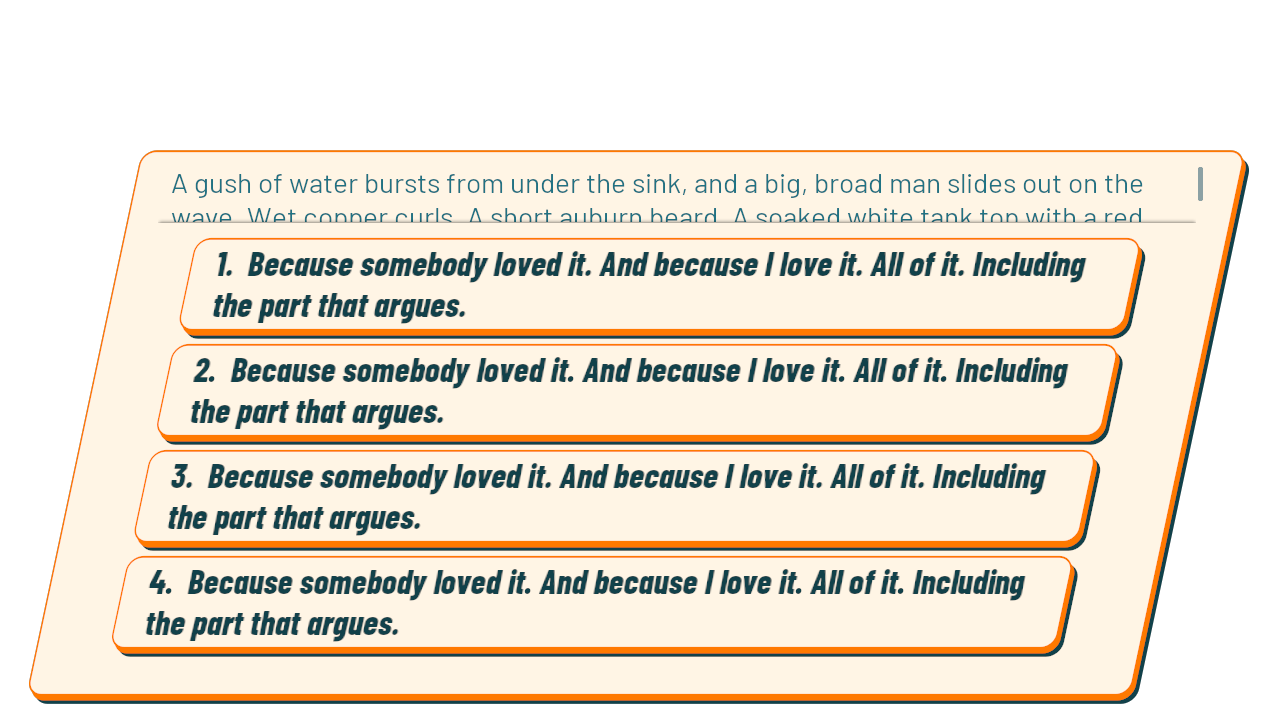
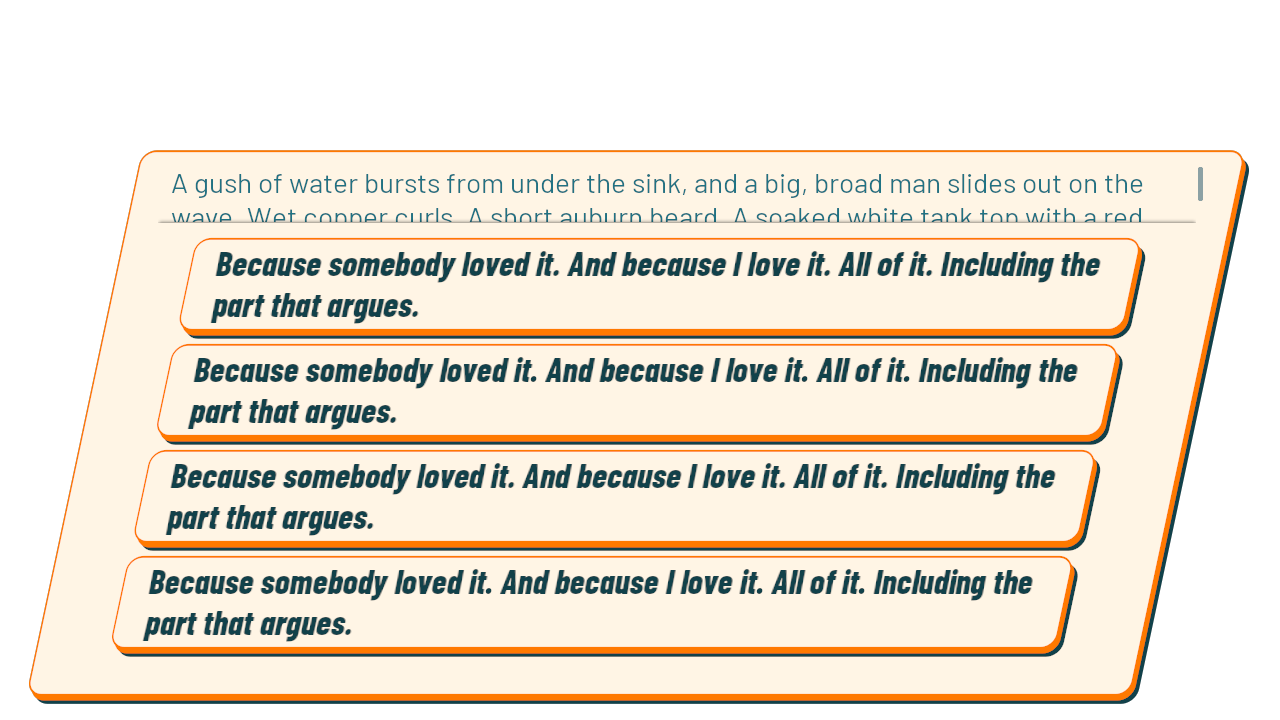
Dialogue header: reserve widest-name space before meters, taller strip, no dividers; unnumbered replies

diff --git a/Source/ICanFixHim/UI/FixHimDialogueWidget.cpp b/Source/ICanFixHim/UI/FixHimDialogueWidget.cpp
@@ -19,6 +19,9 @@
 #include "Components/Overlay.h"
 #include "Components/OverlaySlot.h"
 #include "Components/ProgressBar.h"
+#include "Fonts/FontMeasure.h"
+#include "Framework/Application/SlateApplication.h"
+#include "Rendering/SlateRenderer.h"
 #include "Components/SizeBox.h"
 #include "Components/Spacer.h"
 #include "Components/ScrollBox.h"
@@ -40,6 +43,9 @@ namespace
 constexpr int32 MeterMax = FixHimStatMax;
 constexpr float FadeSeconds = 0.9f;
 constexpr float HoldSeconds = 2.6f;
+// Name plate horizontal padding, strip lead padding, how far the strip tucks behind the name, and the
+// minimum clear space between the widest name plate and the first meter.
+constexpr float NamePadL = 36.f, NamePadR = 52.f, StripPadL = 36.f, StripTuck = 40.f, NameMargin = 36.f;
 } // namespace
 
 void UFixHimDialogueWidget::BuildUI()
@@ -71,7 +77,7 @@ void UFixHimDialogueWidget::BuildUI()
 	UVerticalBox *NameStack = WidgetTree->ConstructWidget<UVerticalBox>();
 	NamePill = WidgetTree->ConstructWidget<UFixHimSurface>();
 	NamePill->SetBrush(Rounded(HotPink, 16.f));
-	NamePill->SetPadding(FMargin(36, 2, 52, 20));
+	NamePill->SetPadding(FMargin(NamePadL, 2, NamePadR, 20));
 	NameText = MakeText(WidgetTree, TEXT("NAME"), 66, FLinearColor::White, TEXT("Display"));
 	NamePill->SetContent(NameText);
 	NameStack->AddChildToVerticalBox(NamePill)->SetHorizontalAlignment(HAlign_Left);
@@ -79,23 +85,14 @@ void UFixHimDialogueWidget::BuildUI()
 
 	UFixHimSurface *Strip = WidgetTree->ConstructWidget<UFixHimSurface>();
 	Strip->SetBrush(Rounded(FixHimDesign::Teal, 12.f));
-	Strip->SetPadding(FMargin(36, 8, 44, 22));
+	Strip->SetPadding(FMargin(StripPadL, 18, 44, 32));
 	UHorizontalBox *Meters = WidgetTree->ConstructWidget<UHorizontalBox>();
 	Strip->SetContent(Meters);
+	MeterLead = WidgetTree->ConstructWidget<USizeBox>();
+	MeterLead->SetWidthOverride(0.f);
+	Meters->AddChildToHorizontalBox(MeterLead);
 	auto AddMeter = [&](const FString &Label, const FString &IconName, const FLinearColor &Color) -> UProgressBar * {
-		if (Meters->GetChildrenCount() > 0)
-		{
-			// Thin cream divider between meters.
-			auto *Divider = WidgetTree->ConstructWidget<USizeBox>();
-			Divider->SetWidthOverride(3);
-			Divider->SetHeightOverride(40);
-			auto *Bar = WidgetTree->ConstructWidget<UBorder>();
-			Bar->SetBrushColor(Cream.CopyWithNewOpacity(.7f));
-			Divider->AddChild(Bar);
-			UHorizontalBoxSlot *DivSlot = Meters->AddChildToHorizontalBox(Divider);
-			DivSlot->SetVerticalAlignment(VAlign_Center);
-			DivSlot->SetPadding(FMargin(12, 0));
-		}
+		const bool bFirst = Meters->GetChildrenCount() == 1; // only MeterLead so far
 		// No label: a stat-colored badge with a white icon sits over the bar's left end.
 		UOverlay *M = WidgetTree->ConstructWidget<UOverlay>();
 		USizeBox *BB = WidgetTree->ConstructWidget<USizeBox>();
@@ -129,6 +126,7 @@ void UFixHimDialogueWidget::BuildUI()
 		UHorizontalBoxSlot *MeterSlot = Meters->AddChildToHorizontalBox(M);
 		MeterSlot->SetSize(FSlateChildSize(ESlateSizeRule::Fill));
 		MeterSlot->SetVerticalAlignment(VAlign_Center);
+		MeterSlot->SetPadding(FMargin(bFirst ? 0.f : 32.f, 0, 0, 0));
 		return Bar;
 	};
 	RomanceBar = AddMeter(TEXT("Romance"), TEXT("heart"), HotPink);
@@ -253,9 +251,30 @@ void UFixHimDialogueWidget::BindHunk(AFixHimHunk *Hunk, const FString &InHunkId)
 }
 
 
+void UFixHimDialogueWidget::RefreshNameReserve()
+{
+	TArray<FString> Names;
+	if (const UFixHimDialogueSubsystem *D = UFixHimDialogueSubsystem::Get(this))
+		for (const auto &Pair : D->GetAllHunks())
+		{
+			if (Pair.Value.IsHunk())
+				Names.Add(Pair.Value.Name);
+			Names.Append(Pair.Value.Speakers);
+		}
+	const UFixHimSaveSubsystem *SaveSub = UFixHimSaveSubsystem::Get(this);
+	Names.Add(SaveSub ? SaveSub->GetPlayerName() : UFixHimSettings::Get()->PlayerName);
+	Names.Add(Current.HunkName);
+	const TSharedRef<FSlateFontMeasure> Measure = FSlateApplication::Get().GetRenderer()->GetFontMeasureService();
+	float Widest = 0.f;
+	for (const FString &Name : Names)
+		Widest = FMath::Max(Widest, float(Measure->Measure(Name.ToUpper(), NameText->GetFont()).X));
+	NameReserve = Widest + NamePadL + NamePadR;
+}
+
 void UFixHimDialogueWidget::ShowView(const FDialogueView &View)
 {
 	Current = View;
+	RefreshNameReserve();
 
 	const bool bPlayer = View.Speaker == EDialogueSpeaker::Player;
 	const bool bNarration = View.Speaker == EDialogueSpeaker::Narration;
@@ -462,7 +481,7 @@ void UFixHimDialogueWidget::BuildChoices()
 	TWeakObjectPtr<UFixHimDialogueWidget> Self(this);
 	for (int32 i = 0; i < Current.Choices.Num(); ++i)
 	{
-		const FString Label = FString::Printf(TEXT("%d.  %s"), i + 1, *Current.Choices[i]);
+		const FString &Label = Current.Choices[i]; // unnumbered; number keys still select by position
 		UFixHimButton *B = WidgetTree->ConstructWidget<UFixHimButton>();
 		B->SetVariant(EFixHimButtonVariant::Reply);
 		FButtonStyle Style = ButtonStyle(Cream, Pink, Pink, 12, Gold);
@@ -595,9 +614,13 @@ void UFixHimDialogueWidget::NativeTick(const FGeometry &MyGeometry, float InDelt
 	{
 		// Tuck the strip ~40 units behind the name plate, or start flush when there is no name.
 		const float NameW = NameStackBox->IsVisible() ? NameStackBox->GetDesiredSize().X : 0.f;
-		const float Lead = FMath::Max(0.f, NameW - 40.f);
+		const float Lead = FMath::Max(0.f, NameW - StripTuck);
 		if (!FMath::IsNearlyEqual(StripLead->GetWidthOverride(), Lead, .5f))
 			StripLead->SetWidthOverride(Lead);
+		// Meters start at a fixed x (widest name + margin) so they don't shift between speakers.
+		const float MeterX = FMath::Max(0.f, FMath::Max(NameReserve, NameW) + NameMargin - Lead - StripPadL);
+		if (MeterLead && !FMath::IsNearlyEqual(MeterLead->GetWidthOverride(), MeterX, .5f))
+			MeterLead->SetWidthOverride(MeterX);
 	}
 	if (PanelSize)
 	{

diff --git a/Source/ICanFixHim/UI/FixHimDialogueWidget.h b/Source/ICanFixHim/UI/FixHimDialogueWidget.h
@@ -74,6 +74,11 @@ private:
 	UPROPERTY() TObjectPtr<UWidget> NameStackBox;
 	/** Tracks the name stack's width so the meter strip starts tucked behind the name plate. */
 	UPROPERTY() TObjectPtr<USizeBox> StripLead;
+	/** Pushes the meters right so they clear the widest possible name plate by NameMargin. */
+	UPROPERTY() TObjectPtr<USizeBox> MeterLead;
+	/** Width of the widest name plate any speaker in this playthrough can produce (hunks, extra speakers, player). */
+	float NameReserve = 0.f;
+	void RefreshNameReserve();
 	UPROPERTY() TObjectPtr<UTextBlock> NameText;
 	UPROPERTY() TObjectPtr<UTextBlock> TypingText;
 	UPROPERTY() TObjectPtr<UWrapBox> WordWrap;

diff --git a/Source/ICanFixHim/UI/FixHimDesignReview.cpp b/Source/ICanFixHim/UI/FixHimDesignReview.cpp
@@ -48,7 +48,7 @@ void UFixHimDesignReviewWidget::BuildUI()
 	Col->AddChildToVerticalBox(Body)->SetPadding(FMargin(0, 0, 0, 16));
 	auto *Reply = UFixHimButton::Make(
 	    WidgetTree,
-	    TEXT("1.  Because somebody loved it. And because I love it. All of it. Including the part that argues."), [] {},
+	    TEXT("Because somebody loved it. And because I love it. All of it. Including the part that argues."), [] {},
 	    22, false);
 	Reply->SetVariant(EFixHimButtonVariant::Reply);
 	Reply->Label->SetJustification(ETextJustify::Left);

diff --git a/docs/03 Art & Audio/UI Design System.md b/docs/03 Art & Audio/UI Design System.md
@@ -66,7 +66,7 @@ The selected treatment restores **rounded corners, thicker asymmetric borders an
 - Rounded cream panel bodies pair with teal headers, orange borders heavier on the lower/right sides, and short ink offset shadows.
 - **Popup and sheet headers** are teal plates straddling the surface's top edge: the plate face is centred vertically on that edge and inset equally from both slanted sides.
 - Dialogue shows **no character portrait**; the character is present in the scene.
-- The **dialogue header** straddles the panel's top edge: a pink name plate (name only, 66-unit display face) and a teal strip tucked behind it holding the three meters. Each meter is a thick bar in its stat color with a round stat-colored icon badge overlaid on its left end; no text labels. Cream dividers separate them. Narration has no header. Spoken lines and replies share one size.
+- The **dialogue header** straddles the panel's top edge: a pink name plate (name only, 66-unit display face) and a teal strip tucked behind it holding the three meters. Each meter is a thick bar in its stat color with a round stat-colored icon badge overlaid on its left end; no text labels or dividers. The meters start at a fixed position that clears the widest name any speaker can have in the playthrough (hunks, extra speakers, the player's name) by at least 36 units, so they never shift between speakers. Replies are unnumbered; number keys still choose by position. Narration has no header. Spoken lines and replies share one size.
 - Use common silhouettes and contour layers across button states and popup variants. Reuse one modal shell with width variants and content-driven height.
 - Primary actions use pink; secondary surfaces use cream. Focus needs a pointer or keyline as well as color. Do not add hearts to focused replies or imply relationship outcomes.
 - Body text and icons remain upright. Do not rotate a whole popup or shear a brand master.
